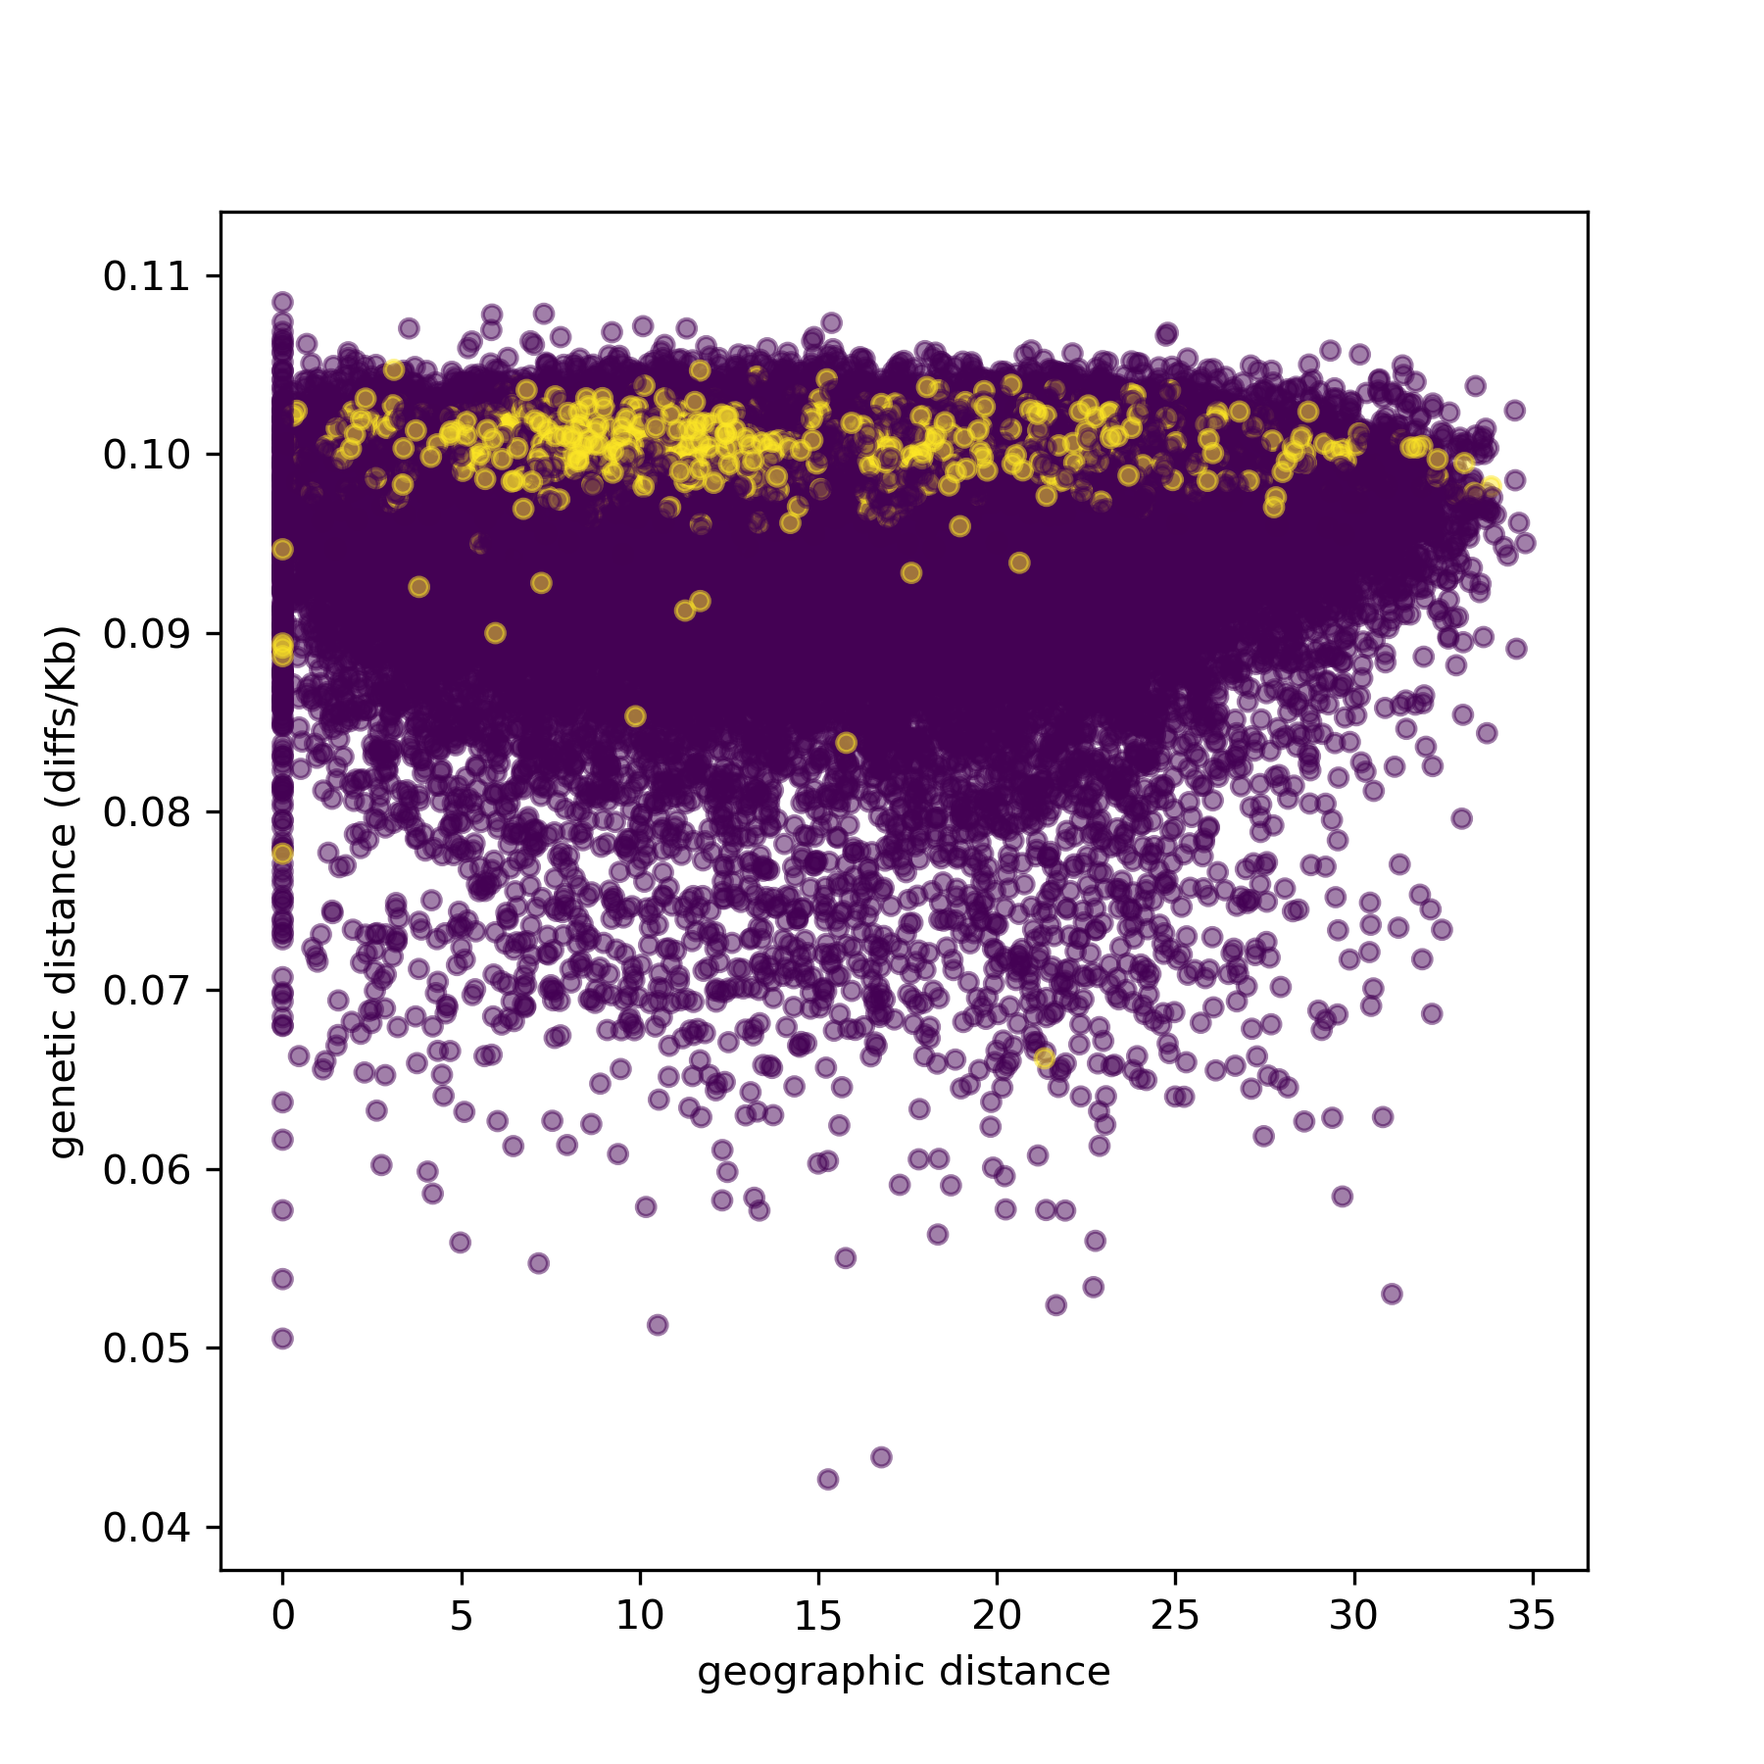
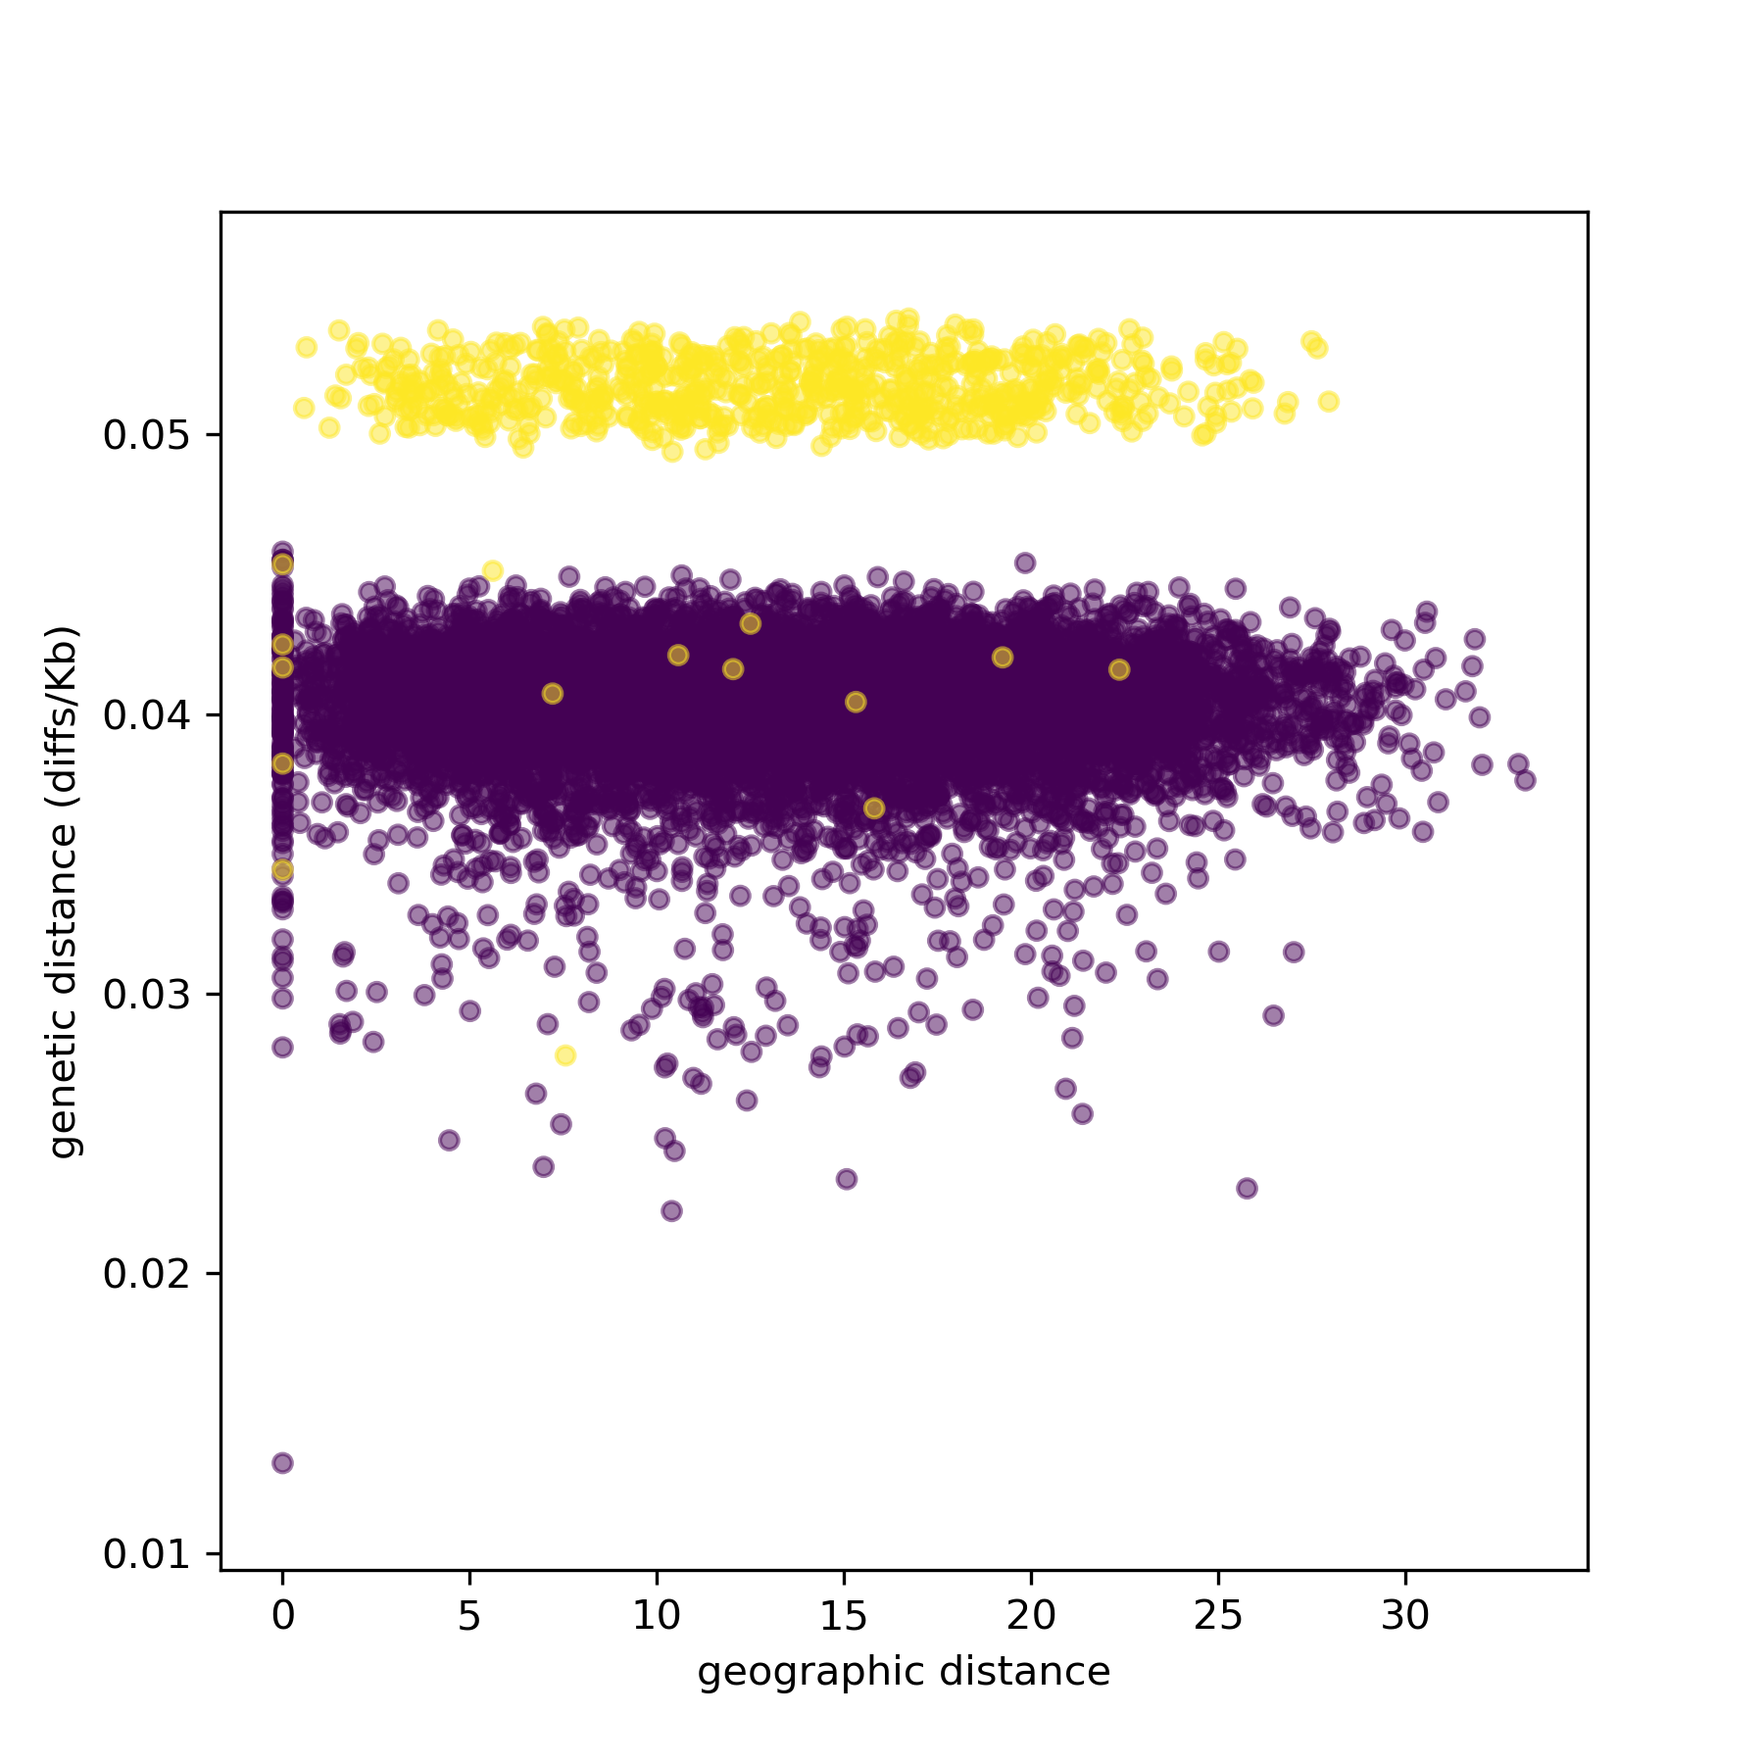
make numbers in vignette match those produced by the code rectifying code and text: simulation timing and misc Need to keep divergences between all pairs of groups/individuals.  Not just the first element of the list of divergences.

diff --git a/docs/vignette_space.rst b/docs/vignette_space.rst
@@ -27,7 +27,7 @@ Here are notes:
 1. It does not have *any* mutations: we'll add these on afterwards.
 2. There is local fecundity regulation of population density: individuals with more neighbors
    have fewer offspring.
-3. We run the simulation for 1000 time steps, and "remember" everyone who is alive at time step 500.
+3. We run the simulation for 2000 time steps, and "remember" everyone who is alive at time step 1000.
 
 .. code-block:: none
 
@@ -68,7 +68,7 @@ Here are notes:
    }
 
    1 early() {
-       sim.addSubpop("p1", K * W * W);
+       sim.addSubpop("p1", 1000);
        p1.setSpatialBounds(c(0.0, 0.0, W, W));
        for (ind in p1.individuals) {
            ind.setSpatialPosition(p1.pointUniform());
@@ -110,12 +110,12 @@ Running this code, we get
 
 .. code-block:: none
 
-   Tree sequence has 43620 trees on a genome of length 100000000.0,
-   5287 individuals, 9324 'sample' genomes, and 0 mutations.
+   The tree sequence has 27316 trees on a genome of length 100000000.0,
+   4348 individuals, 6696 'sample' genomes, and 0 mutations.
 
 It makes sense we have no mutations: we haven't added any yet.
-The tree sequence is recording the relationship between 2,410 genomes (the "samples"),
-which requires 7,139 distinct trees along the genome.
+The tree sequence is recording the relationship between 6,696 genomes (the "samples"),
+which requires 27,316 distinct trees along the genome.
 Individuals are diploid, so why is the number of individuals not equal to twice the number of samples? 
 Recall that for the *next* step, recapitation, it is necessary to keep the genomes from the first
 generation around in the tree sequence so we can trace back lineages from them.
@@ -131,39 +131,42 @@ This gets us
 
 .. code-block:: none
 
-   There are 571 individuals from time 0.0.
-   There are 398 individuals from time 1.0.
-   There are 320 individuals from time 2.0.
-   There are 241 individuals from time 3.0.
-   # ... omitting some ...
-   There are 1 individuals from time 21.0.
-   There are 1 individuals from time 22.0.
-   There are 1 individuals from time 24.0.
-   There are 1 individuals from time 26.0.
-   There are 1 individuals from time 27.0.
-   There are 618 individuals from time 1000.0.
-   There are 433 individuals from time 1001.0.
-   There are 327 individuals from time 1002.0.
-   There are 241 individuals from time 1003.0.
-   There are 190 individuals from time 1004.0.
-   # ... omitting some ...
-   There are 1 individuals from time 1022.0.
-   There are 1 individuals from time 1024.0.
-   There are 1 individuals from time 1027.0.
-   There are 625 individuals from time 1999.0.
+   There are 849 individuals from time 0.0.
+   There are 450 individuals from time 1.0.
+   There are 211 individuals from time 2.0.
+   There are 120 individuals from time 3.0.
+   There are 41 individuals from time 4.0.
+   There are 32 individuals from time 5.0.
+   There are 11 individuals from time 6.0.
+   There are 8 individuals from time 7.0.
+   There are 2 individuals from time 8.0.
+   There are 1 individuals from time 9.0.
+   There are 1 individuals from time 11.0.
+   There are 820 individuals from time 1000.0.
+   There are 409 individuals from time 1001.0.
+   There are 203 individuals from time 1002.0.
+   There are 96 individuals from time 1003.0.
+   There are 52 individuals from time 1004.0.
+   There are 24 individuals from time 1005.0.
+   There are 9 individuals from time 1006.0.
+   There are 5 individuals from time 1007.0.
+   There are 1 individuals from time 1008.0.
+   There are 2 individuals from time 1009.0.
+   There are 1 individuals from time 1011.0.
+   There are 1000 individuals from time 1999.0.
 
 
 These "times" record the birth times of each individual.
 These are *tskit* times, which are in units of "time ago",
-so for instance, there are 398 individuals born one time unit before the end of the simulation
-and 320 born two time units before the end of the simulation.
+so for instance, there are 450 individuals born one time unit before the end of the simulation
+and 211 born two time units before the end of the simulation.
 (This confusing choice of units is because tskit was developed for msprime, a coalescent simulator.)
-This tells us that 625 of the individuals are those that we initialized the simulation with
+This tells us that 1,000 of the individuals are those that we initialized the simulation with
 (we ran it for 2000 time steps and it began at SLiM time step 1, which is 1999 time steps ago),
 and there's some more individuals around 1000 time steps ago, when we asked SLiM to remember
 them for us, and some more in the past few time steps, i.e., the present.
 This is a non-Wright-Fisher simulation,
-and so individuals may live for more than one time step (up to age 27, it seems).
+and so individuals may live for more than one time step (up to age 11, it seems).
 Let's check that all these individuals are alive at either (a) today, (b) 1000 time steps ago,
 or (c) the start of the simulation.
 
@@ -178,11 +181,11 @@ This tells us that
 
 .. code-block:: none
 
-   There were 2309 individuals alive 0 time steps in the past.
-   There were 2353 individuals alive 1000 time steps in the past.
-   There were 625 individuals alive 1999 time steps in the past.
+   There were 1726 individuals alive 0 time steps in the past.
+   There were 1622 individuals alive 1000 time steps in the past.
+   There were 1000 individuals alive 1999 time steps in the past.
 
-And, 2309 + 2353 + 625 is 5287, the total number of individuals.
+And, 1726 + 1622 + 1000 is 4348, the total number of individuals.
 So, this all checks out.
 
 
@@ -197,13 +200,15 @@ But, first let's see if recapitation is necessary:
 on how much of the genome is the tree sequence not coalesced?
 In other words, recapitation adds diversity present in the initial generation;
 will it make a difference? 
-In fact, there is *no* segment of the genome that has coalesced;
-*every* tree has more than one root:
+In fact, *most* segments of the genome have not yet coalesced;
+only 11 of the 27,327 trees have only one root:
 
 .. code-block:: none
 
    >> sum([t.num_roots == 1 for t in slim_ts.trees()])
-   0
+   11
+   >>> sum([t.num_roots > 0 for t in slim_ts.trees()])
+   27316
 
 Next, we will:
 
@@ -225,7 +230,7 @@ and if we did it would have to come *after* these steps.
 
    import msprime
 
-   recap_ts = slim_ts.recapitate(recombination_rate=1e-8, Ne=2000)
+   recap_ts = slim_ts.recapitate(recombination_rate=1e-8, Ne=1000)
    ts = pyslim.SlimTreeSequence(
          msprime.mutate(recap_ts, rate=1e-8, keep=True))
    ts.dump("spatial_sim.recap.trees")
@@ -239,7 +244,7 @@ resulting in
 
 .. code-block:: none
 
-   The tree sequence now has 64606 trees, and 204544 mutations.
+   The tree sequence now has 33009 trees, and 63202 mutations.
 
 .. note::
 
@@ -261,13 +266,13 @@ Take a sample of individuals
 Now it's time to compute some things.
 In real life we don't get to work with *everyone* usually,
 so we'll take a subset of individuals.
-The range we have simulated has width and height 20 units,
+The range we have simulated has width and height 25 units,
 with a population density of around 1 per unit area.
 We'll get genomes to work with by pulling out
 
 1. All the modern individuals in the five squares of width 3 in the corners of the range
    and the center, and
-2. Five individuals sampled randomly from everyone alive 500 time steps ago.
+2. Five individuals sampled randomly from everyone alive 1000 time steps ago.
 
 .. code-block:: python
 
@@ -297,20 +302,19 @@ We'll get genomes to work with by pulling out
 
 .. code-block:: none
 
-   We have 112 individuals in the topleft group.
-   We have 72 individuals in the topright group.
-   We have 107 individuals in the bottomleft group.
-   We have 83 individuals in the bottomright group.
-   We have 28 individuals in the center group.
+   We have 37 individuals in the topleft group.
+   We have 37 individuals in the topright group.
+   We have 26 individuals in the bottomleft group.
+   We have 26 individuals in the bottomright group.
+   We have 16 individuals in the center group.
    We have 5 individuals in the ancient group.
-
 
 To keep names associated with each subset of individuals,
 we've kept the individuals in a dict, so that for instance
 `groups["topleft"]` is an array of all the individual IDs that are in the top left corner.
 The IDs of the ancient individuals we will work with are kept in the array `ancient`.
 
-Let's do a quick sanity check, that everyone in `ancient` was actually born around 500 time steps ago:
+Let's do a quick sanity check, that everyone in `ancient` was actually born around 1000 time steps ago:
 
 .. code-block:: python
 
@@ -338,21 +342,21 @@ by indexing the rows of the individual location array:
 .. code-block:: none
 
    >>> ts.individual_locations
-   array([[21.67473301 23.07757367  0.        ]
-          [ 1.55431398  8.33115159  0.        ]
-          [ 2.64914304  3.15481677  0.        ]
-          ...
-          [18.11357265  3.79427758  0.        ]
-          [18.71267205  3.99446207  0.        ]
-          [ 2.33708453  4.0929182   0.        ]])
+   array([[13.80897405,  6.82864046,  0.        ],
+          [15.99468473, 15.53409472,  0.        ],
+          [16.55974164, 12.15628142,  0.        ],
+          ...,
+          [23.54238595, 15.86662063,  0.        ],
+          [20.87051031, 24.82176819,  0.        ],
+          [23.50646183, 24.9382513 ,  0.        ]])
    >>> ts.individual_locations.shape
-   (5287, 3)
+   (4348, 3)
    >>> ts.individual_locations[groups["topleft"], :].shape
-   (112, 3)
+   (37, 3)
 
 
 Using this, we can easily plot the locations of all the individuals from today
-(on the left) and 500 time steps ago (on the right).
+(on the left) and 1000 time steps ago (on the right).
 We have to do a bit of mucking around to set the colors so that they reflect
 which group each individual is in.
 
@@ -405,24 +409,24 @@ For instance, here's what we have for the five "ancient" individuals:
 
 .. code-block:: none
 
-   >>> for i in ancient:
+   >>> for i in groups['ancient']:
    ...   print(ts.individual(i))
    ... 
-   {'id': 3529, 'flags': 131072, 'location': array([19.39721914,  6.70451961,  0.        ]),
-      'metadata': IndividualMetadata(pedigree_id=573541, age=4, population=1, sex=-1, flags=0),
-      'nodes': array([2440, 2441], dtype=int32), 'population': 1, 'time': 1004.0}
-   {'id': 3676, 'flags': 131072, 'location': array([ 3.23841602, 20.06118178,  0.        ]),
-      'metadata': IndividualMetadata(pedigree_id=573976, age=3, population=1, sex=-1, flags=0),
-      'nodes': array([2734, 2735], dtype=int32), 'population': 1, 'time': 1003.0}
-   {'id': 3998, 'flags': 131072, 'location': array([17.87725144,  3.59648294,  0.        ]),
-      'metadata': IndividualMetadata(pedigree_id=574690, age=2, population=1, sex=-1, flags=0),
-      'nodes': array([3378, 3379], dtype=int32), 'population': 1, 'time': 1002.0}
-   {'id': 4927, 'flags': 131072, 'location': array([ 0.76539931, 19.74287009,  0.        ]),
-      'metadata': IndividualMetadata(pedigree_id=575981, age=0, population=1, sex=-1, flags=0),
-      'nodes': array([5236, 5237], dtype=int32), 'population': 1, 'time': 1000.0}
-   {'id': 4446, 'flags': 131072, 'location': array([20.19949785,  0.51275621,  0.        ]),
-      'metadata': IndividualMetadata(pedigree_id=575422, age=1, population=1, sex=-1, flags=0),
-      'nodes': array([4274, 4275], dtype=int32), 'population': 1, 'time': 1001.0}
+   {'id': 3321, 'flags': 131072, 'location': array([9.14133435, 6.8947811 , 0.        ]),
+      'metadata': IndividualMetadata(pedigree_id=814744, age=1, population=1, sex=-1, flags=0),
+      'nodes': array([3190, 3191], dtype=int32), 'population': 1, 'time': 1001.0}
+   {'id': 3468, 'flags': 131072, 'location': array([14.37826013, 20.23742822,  0.        ]),
+      'metadata': IndividualMetadata(pedigree_id=815025, age=1, population=1, sex=-1, flags=0),
+      'nodes': array([3484, 3485], dtype=int32), 'population': 1, 'time': 1001.0}
+   {'id': 3790, 'flags': 131072, 'location': array([0.15777608, 1.17249009, 0.        ]),
+      'metadata': IndividualMetadata(pedigree_id=815404, age=0, population=1, sex=-1, flags=0),
+      'nodes': array([4128, 4129], dtype=int32), 'population': 1, 'time': 1000.0}
+   {'id': 3676, 'flags': 131072, 'location': array([18.59548841, 18.92988639,  0.        ]),
+      'metadata': IndividualMetadata(pedigree_id=815290, age=0, population=1, sex=-1, flags=0),
+      'nodes': array([3900, 3901], dtype=int32), 'population': 1, 'time': 1000.0}
+   {'id': 4238, 'flags': 131072, 'location': array([2.90141632, 3.9466396 , 0.        ]),
+      'metadata': IndividualMetadata(pedigree_id=815852, age=0, population=1, sex=-1, flags=0),
+      'nodes': array([5024, 5025], dtype=int32), 'population': 1, 'time': 1000.0}
 
 Notice that among other things, each `individual` carries around a list of their `node` IDs,
 i.e., their genomes.
@@ -447,12 +451,12 @@ should be twice the number of individuals in the corresponding list.
 .. code-block:: none
 
    >>> [len(groups[k]) for k in groups]
-   [112, 72, 107, 83, 28, 5]
+   [37, 37, 26, 26, 16, 5]
 
    >>> [len(u) for u in sampled_nodes]
-   [224, 144, 214, 166, 56, 10]
+   [74, 74, 52, 52, 32, 10]
    
-So, in the 'topleft' corner there are 51 diploids. That checks out.   
+So, in the 'topleft' corner there are 37 diploids. That checks out.   
 
 Now, we can compute the matrix of pairwise mean sequence divergences
 between and within these sets.
@@ -461,7 +465,7 @@ This is done using the :meth:`ts.divergence <tskit.TreeSequence.divergence>` met
 .. code-block:: python
 
    pairs = [(i, j) for i in range(6) for j in range(6)]
-   group_div = ts.divergence(sampled_nodes, indexes=pairs)[0].reshape((6, 6))
+   group_div = ts.divergence(sampled_nodes, indexes=pairs).reshape((6, 6))
 
    print("\t" + "\t".join(group_order))
    for i, group in enumerate(group_order):
@@ -470,13 +474,12 @@ This is done using the :meth:`ts.divergence <tskit.TreeSequence.divergence>` met
 
 .. code-block:: none
 
-   group: topleft	topright	bottomleft	bottomright	center	ancient
-   topleft:	9.08e-05	9.73e-05	9.7e-05	9.85e-05	9.64e-05	9.85e-05
-   topright:	9.73e-05	8.98e-05	9.86e-05	9.81e-05	9.73e-05	9.95e-05
-   bottomleft:	9.7e-05	9.86e-05	9.22e-05	9.75e-05	9.73e-05	9.86e-05
-   bottomright:	9.85e-05	9.81e-05	9.75e-05	9.15e-05	9.73e-05	9.85e-05
-   center:	9.64e-05	9.73e-05	9.73e-05	9.73e-05	9.41e-05	9.9e-05
-   ancient:	9.85e-05	9.95e-05	9.86e-05	9.85e-05	9.9e-05	8.59e-05
+   topleft:	3.83e-05	4.06e-05	4.01e-05	4.12e-05	4.05e-05	5.15e-05
+   topright:	4.06e-05	3.91e-05	4.06e-05	4.07e-05	4.02e-05	5.16e-05
+   bottomleft:	4.01e-05	4.06e-05	3.89e-05	4.08e-05	4.04e-05	5.19e-05
+   bottomright:	4.12e-05	4.07e-05	4.08e-05	3.95e-05	4.07e-05	5.22e-05
+   center:	4.05e-05	4.02e-05	4.04e-05	4.07e-05	4.04e-05	5.15e-05
+   ancient:	5.15e-05	5.16e-05	5.19e-05	5.22e-05	5.15e-05	4.02e-05
 
 
 That's nice, but to look at isolation by distance,
@@ -496,7 +499,7 @@ and to keep track of which group each one belongs to.
 
    nind = len(ind_nodes)
    pairs = [(i, j) for i in range(nind) for j in range(nind) if i <= j]
-   ind_div = ts.divergence(ind_nodes, indexes=pairs)[0]
+   ind_div = ts.divergence(ind_nodes, indexes=pairs)
 
 Here we've only computed divergences in the *upper triangle* of the pairwise divergence matrix,
 with heterozygosities on the diagonal.
@@ -508,7 +511,6 @@ We'll also need pairwise geographic distances:
    locs = ts.individual_locations
    for k, (i, j) in enumerate(pairs):
       geog_dist[k] = np.sqrt(np.sum((locs[i, :] - locs[j, :])**2))
-
 
 Let's check that makes sense: distances of individuals from themselves should be zero.
 
